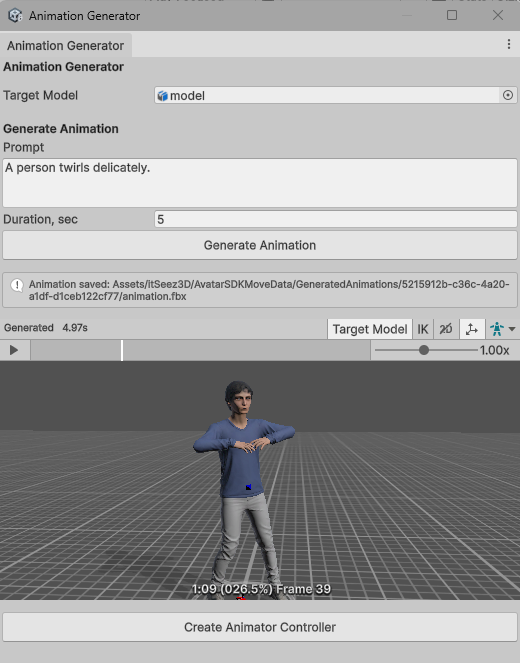
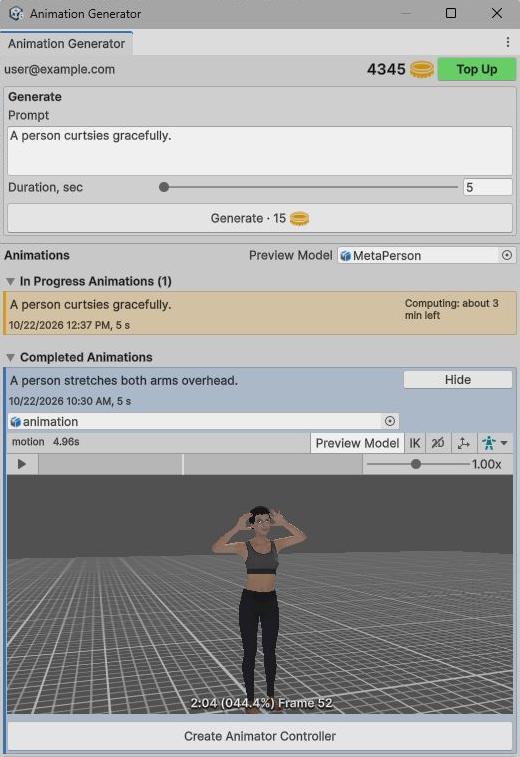
Move docs: Unity plugin 1.0.0 out of beta
Update the Move overview, the Move Unity plugin page and the DeepMotion tip
for plugin 1.0.0: no beta notices, the new Editor workflow with animation
history, the StartGeneration/Play runtime API, new screenshots and the new
Move video.

diff --git a/docs/3dmotion/move-unity-plugin.md b/docs/3dmotion/move-unity-plugin.md
@@ -14,36 +14,45 @@ play.
 
 For an overview of the technology and the web editor, see [Avatar SDK Move](/move). Product details, licensing and the latest release notes live on the [Move Unity plugin page](https://avatarsdk.com/move-unity-plugin/) at avatarsdk.com.
 
-:::info Beta
-The plugin is currently in beta — generation is unlimited for testing and evaluation. See the
-[product page](https://avatarsdk.com/move-unity-plugin/) for current status, or write to
-[support@avatarsdk.com](mailto:support@avatarsdk.com) about commercial use and licensing.
-:::
-
 ## Installation
 
-1. [Download the plugin](https://releases.avatarsdk.com/move/unity/avatar_sdk_move_0.0.1.unitypackage)
+1. [Download the plugin](https://releases.avatarsdk.com/move/unity/avatar_sdk_move_1.0.0.unitypackage)
    and import the `.unitypackage` into your project.
 2. The Account window opens automatically. Enter your email, then the one-time code you receive.
+   It is the same account you use in [MetaPerson Creator](https://metaperson.avatarsdk.com).
 3. Open one of the included sample scenes — one shows the Editor workflow, the other end-to-end
    runtime generation driven from a UI.
+
+The plugin checks for updates when Unity starts and offers to download a newer version. You can also
+check at any time with **Avatar SDK Move → Check for Updates**. Before importing a newer version,
+delete `Assets/itSeez3D/AvatarSDKMove`; your generated animations live outside that folder and are
+kept.
 
 ## Your first animation in the Editor
 
 1. Open **Avatar SDK Move → Animation Generator**.
-2. Assign your humanoid model.
-3. Type what you want it to do.
-4. Press **Generate Animation**.
+2. Type what you want your character to do and choose the duration, from 5 to 10 seconds.
+3. Press **Generate**.
+4. When the animation is ready, press **Show** to play it on your model.
 
-![The Animation Generator window with a prompt entered, next to a character performing the generated animation.](./img/move-plugin-generator.png)
+![The Animation Generator window with a prompt and an animation in progress, next to a character performing a generated animation.](./img/move-plugin-generator.png)
 
-The clip is downloaded, imported as a Humanoid FBX, and starts playing in the preview — on your
-model, not on a generic mannequin.
+Generation runs in the cloud and takes a few minutes. The animation appears under
+**In Progress Animations** with an estimate of the time left, so you can keep working or start the next
+one in the meantime. When it is ready, it is imported into your project automatically as a Humanoid
+FBX, under `Assets/itSeez3D/AvatarSDKMoveData/GeneratedAnimations/`.
 
-![The Animation Generator window docked over the Unity Scene view with a character selected.](./img/move-plugin-target-model.png)
+**Completed Animations** lists every animation on your account, including those generated in another
+project. **Import** downloads one into this project; **Show More** loads older ones.
 
-If you want it wired up, one button builds an Animator Controller from the clip and assigns it to
-your character.
+![The Animation Generator window listing an animation in progress with the estimated waiting time and several completed animations.](./img/move-plugin-history.png)
+
+To preview a clip, assign a humanoid model from your scene as the **Preview Model** and press **Show**
+on an imported animation. If you want it wired up, **Create Animator Controller** builds a controller
+from the clip and assigns it to your character.
+
+If a generation fails, it stays in the list with its animation code — send the code to
+[support@avatarsdk.com](mailto:support@avatarsdk.com).
 
 ![The generated clip playing in the preview, with a Create Animator Controller button.](./img/move-plugin-preview.png)
 
@@ -54,19 +63,33 @@ Add the `AnimationGenerator` prefab to the scene and call `Generate`:
 ```csharp
 // targetModel — a GameObject with an Animator whose Avatar is Humanoid
 // prompt      — plain-text description of the movement
-// duration    — requested clip length in seconds
-AnimationClip clip = await animationGenerator.Generate(targetModel, prompt, duration);
+// duration    — requested animation length in seconds, from 5 to 10
+await animationGenerator.Generate(targetModel, prompt, duration);
 ```
 
-The call is asynchronous and completes when the clip is ready to play. Nothing is written to disk:
-at runtime the animation is delivered as GLB, parsed in memory and applied to the `Animator`
-directly, which is why the same code path also works in a WebGL build where file system access is
-unavailable.
+The call starts the generation, waits for it to finish and plays the result on your character.
+Because generation takes a few minutes, you can also split it in two:
 
-Generation takes several seconds, so keep the UI responsive and show progress while awaiting the
-call — the included runtime sample demonstrates one way to do it.
+```csharp
+TextToAnimationData animation = await animationGenerator.StartGeneration(prompt, duration);
+// ...later, once the animation is completed:
+await animationGenerator.Play(targetModel, animation);
+```
 
-![A running application with a prompt field, a Generate button, and a character kneeling on one knee.](./img/move-plugin-runtime.png)
+`StartGeneration` returns as soon as the generation is started, so your UI stays free while it runs
+in the cloud. Progress, completion and failure are also reported through the `onProgress`,
+`onCompleted` and `onFailed` events of `AnimationGenerator`, which you can wire to UI in the Inspector.
+
+Nothing is written to disk: at runtime the animation is delivered as GLB, parsed in memory and applied
+to the character directly, which is why the same code path also works in a WebGL build where file
+system access is unavailable.
+
+The users of your app sign in with their own email and a one-time code. The runtime sample includes a
+ready-made `AccountPanel` prefab for that, and
+keeps a history of the user's animations: generations in progress survive restarting the app, and
+clicking a completed animation plays it.
+
+![The runtime sample with sign-in, a prompt and animation history, and a character playing a generated animation.](./img/move-plugin-runtime.png)
 
 ## Retargeting
 
@@ -87,6 +110,8 @@ mis-mapped bone in the Humanoid rig is the usual cause.
 ## Requirements and platforms
 
 - **Unity version:** Unity 6000.0 or newer.
+- **Render pipeline:** the plugin's scripts work with any render pipeline; the bundled sample models
+  use URP materials.
 - **Supported platforms:** Windows, macOS, Linux, WebGL, Android and iOS.
 
 ## Notes and limitations
@@ -97,12 +122,11 @@ not supported.
 
 **Clip format differs by context.** In the Editor a clip arrives as FBX and is imported as a
 standard Unity Humanoid `AnimationClip` — usable in Animator Controllers, Timeline and blend trees
-like any other asset. At runtime it arrives as GLB and exists only in memory for that session; store
-the prompt, not the clip, if you need to reproduce it later.
+like any other asset. At runtime it arrives as GLB and exists only in memory for that session; the
+animation stays in the user's history, so it can be played again later.
 
 **Shipping runtime generation.** Generation happens in the cloud, so a build that generates
-animations at runtime needs network access and your account credentials configured in the project.
-Plan for the failure path — no connection, or a request that takes longer than your UI expects.
+animations at runtime needs network access, and each user signs in to their own account. Plan for
+the failure path — no connection, or a generation that takes longer than your UI expects.
 
-**Prompt length and duration.** Longer requested durations take longer to generate. Start with short
-clips (a few seconds) while iterating on prompt wording.
+**Duration.** Animations are 5 to 10 seconds long, and longer animations take longer to generate.

diff --git a/docs/3dmotion/move.md b/docs/3dmotion/move.md
@@ -14,7 +14,7 @@ animation library for something close enough.
 
 <div class="iframe-container">
 <iframe width="560" height="315" allow="fullscreen"
-src="https://www.youtube.com/embed/C0bZ1FFsBNc">
+src="https://www.youtube.com/embed/EHR8vtuhUhA">
 </iframe></div>
 
 &nbsp;
@@ -27,9 +27,9 @@ with MetaPerson avatars without any conversion or retargeting setup on your side
 **In the web editor.** Open [MetaPerson Creator](https://metaperson.avatarsdk.com), select your
 avatar and describe the movement you want. The animation is generated and previewed on your own
 avatar, and you can export it together with the model. See the
-[Avatar SDK Move product page](https://avatarsdk.com/move/) for the current beta status.
+[Avatar SDK Move product page](https://avatarsdk.com/move/) for product details.
 
-![Animation generation in MetaPerson Creator.](./img/metaperson-creator-animate.png)
+![Animation generation in MetaPerson Creator: a prompt, duration and Generate button above the My Animations list, next to an avatar performing a generated animation.](./img/metaperson-creator-animate.png)
 
 **In Unity.** The [Move Unity plugin](/move-unity-plugin) brings the same pipeline into the Unity
 Editor and into your running application — see that page for installation, the Editor workflow and
@@ -37,13 +37,13 @@ the runtime API, and the [plugin page on avatarsdk.com](https://avatarsdk.com/mo
 for product details and licensing. In the Editor
 you build a library of clips as project assets; at runtime your application can generate
 animations on demand, so the people using your app can describe the movement they want and watch
-it play.
+it play. Generation takes a few minutes.
 
 ```csharp
 await animationGenerator.Generate(targetModel, prompt, duration);
 ```
 
-![Animation generation in Avatar SDK Move Unity plugin.](./img/move-plugin-animation.png)
+![The Animation Generator window in the Avatar SDK Move Unity plugin, with a prompt and an animation in progress, next to a character performing a generated animation.](./img/move-plugin-animation.png)
 
 ## Works with any humanoid model
 
@@ -63,5 +63,4 @@ WebGL build.
 - Unity 6000.0 or newer
 - Windows, macOS, Linux, WebGL, Android and iOS
 
-Move is currently in beta. For commercial use and licensing, contact us at
-[support@avatarsdk.com](mailto:support@avatarsdk.com).
+For questions about Move, contact us at [support@avatarsdk.com](mailto:support@avatarsdk.com).

diff --git a/docs/3dmotion/deepmotion.md b/docs/3dmotion/deepmotion.md
@@ -13,7 +13,7 @@ This page is our guide to using DeepMotion's tools with MetaPerson avatars. Deep
 :::
 
 :::tip Prefer to generate the animation without leaving MetaPerson?
-**[Avatar SDK Move](/move)** generates a Humanoid animation clip for a MetaPerson avatar from a text prompt. Generation and preview are free in [MetaPerson Creator](https://metaperson.avatarsdk.com); exporting a clip (FBX/GLB) uses in-app credits. Unity developers can do the same in the Editor or at runtime with the [Move Unity plugin](/move-unity-plugin) (beta, Unity 6000.0+; free for testing and evaluation, commercial use on request). Product page: [avatarsdk.com/move](https://avatarsdk.com/move/).
+**[Avatar SDK Move](/move)** generates a Humanoid animation clip for a MetaPerson avatar from a text prompt. It is available in [MetaPerson Creator](https://metaperson.avatarsdk.com). Unity developers can do the same in the Editor or at runtime with the [Move Unity plugin](/move-unity-plugin) (Unity 6000.0+). Product page: [avatarsdk.com/move](https://avatarsdk.com/move/).
 :::
 
 <div class="iframe-container">
